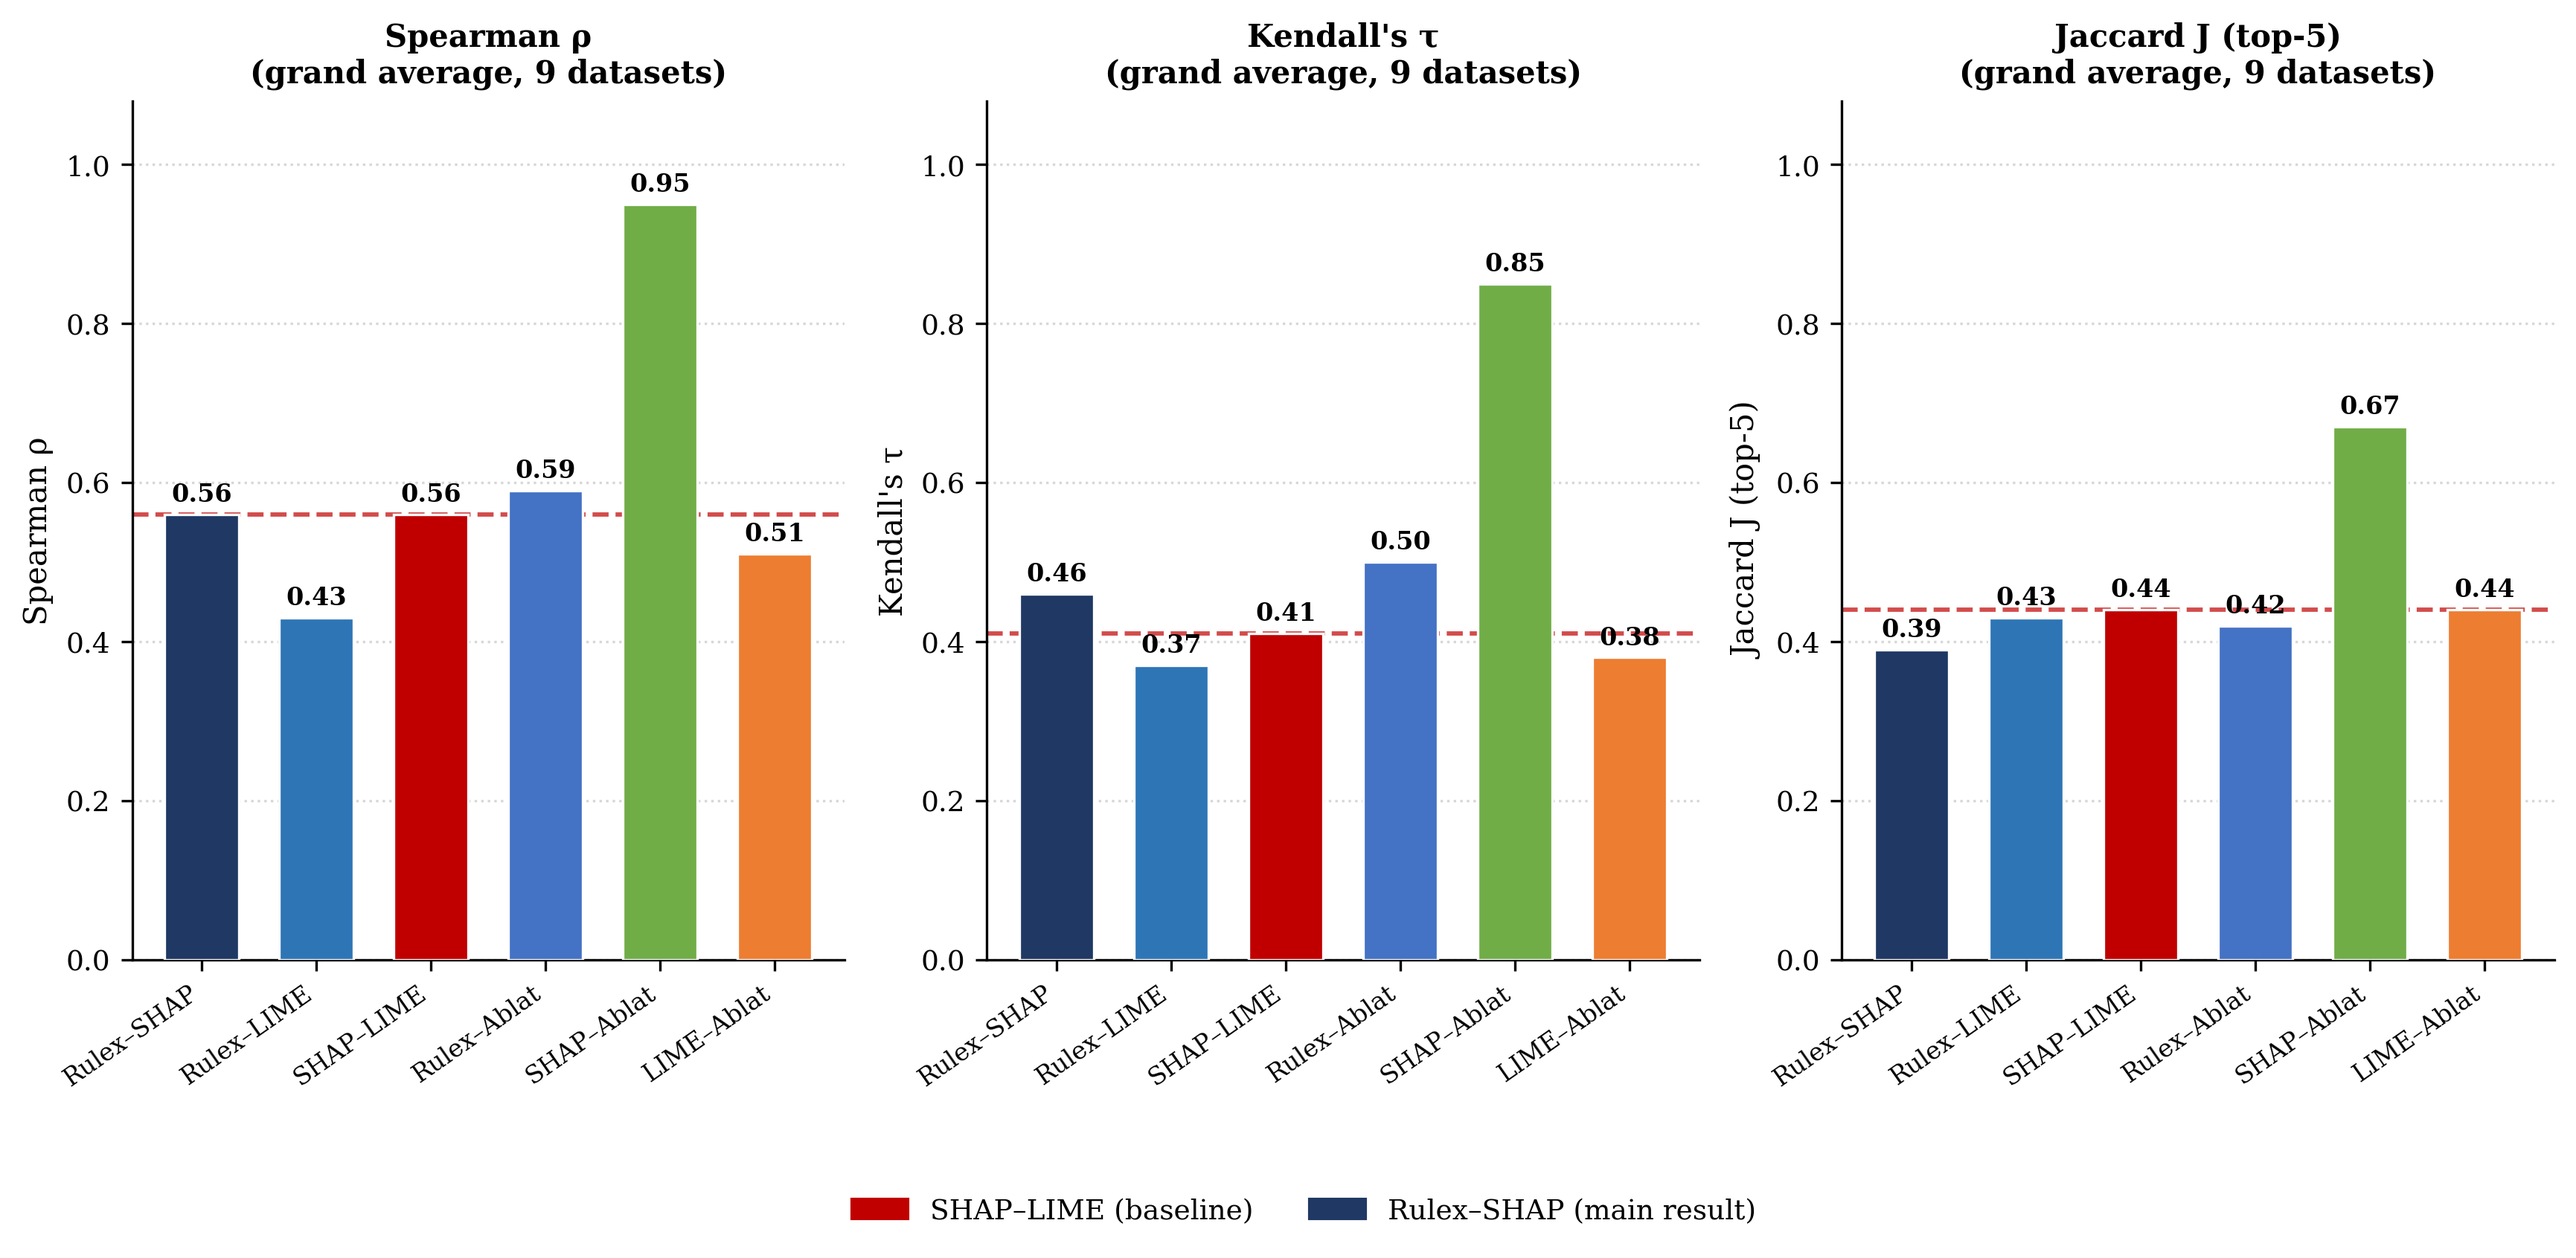
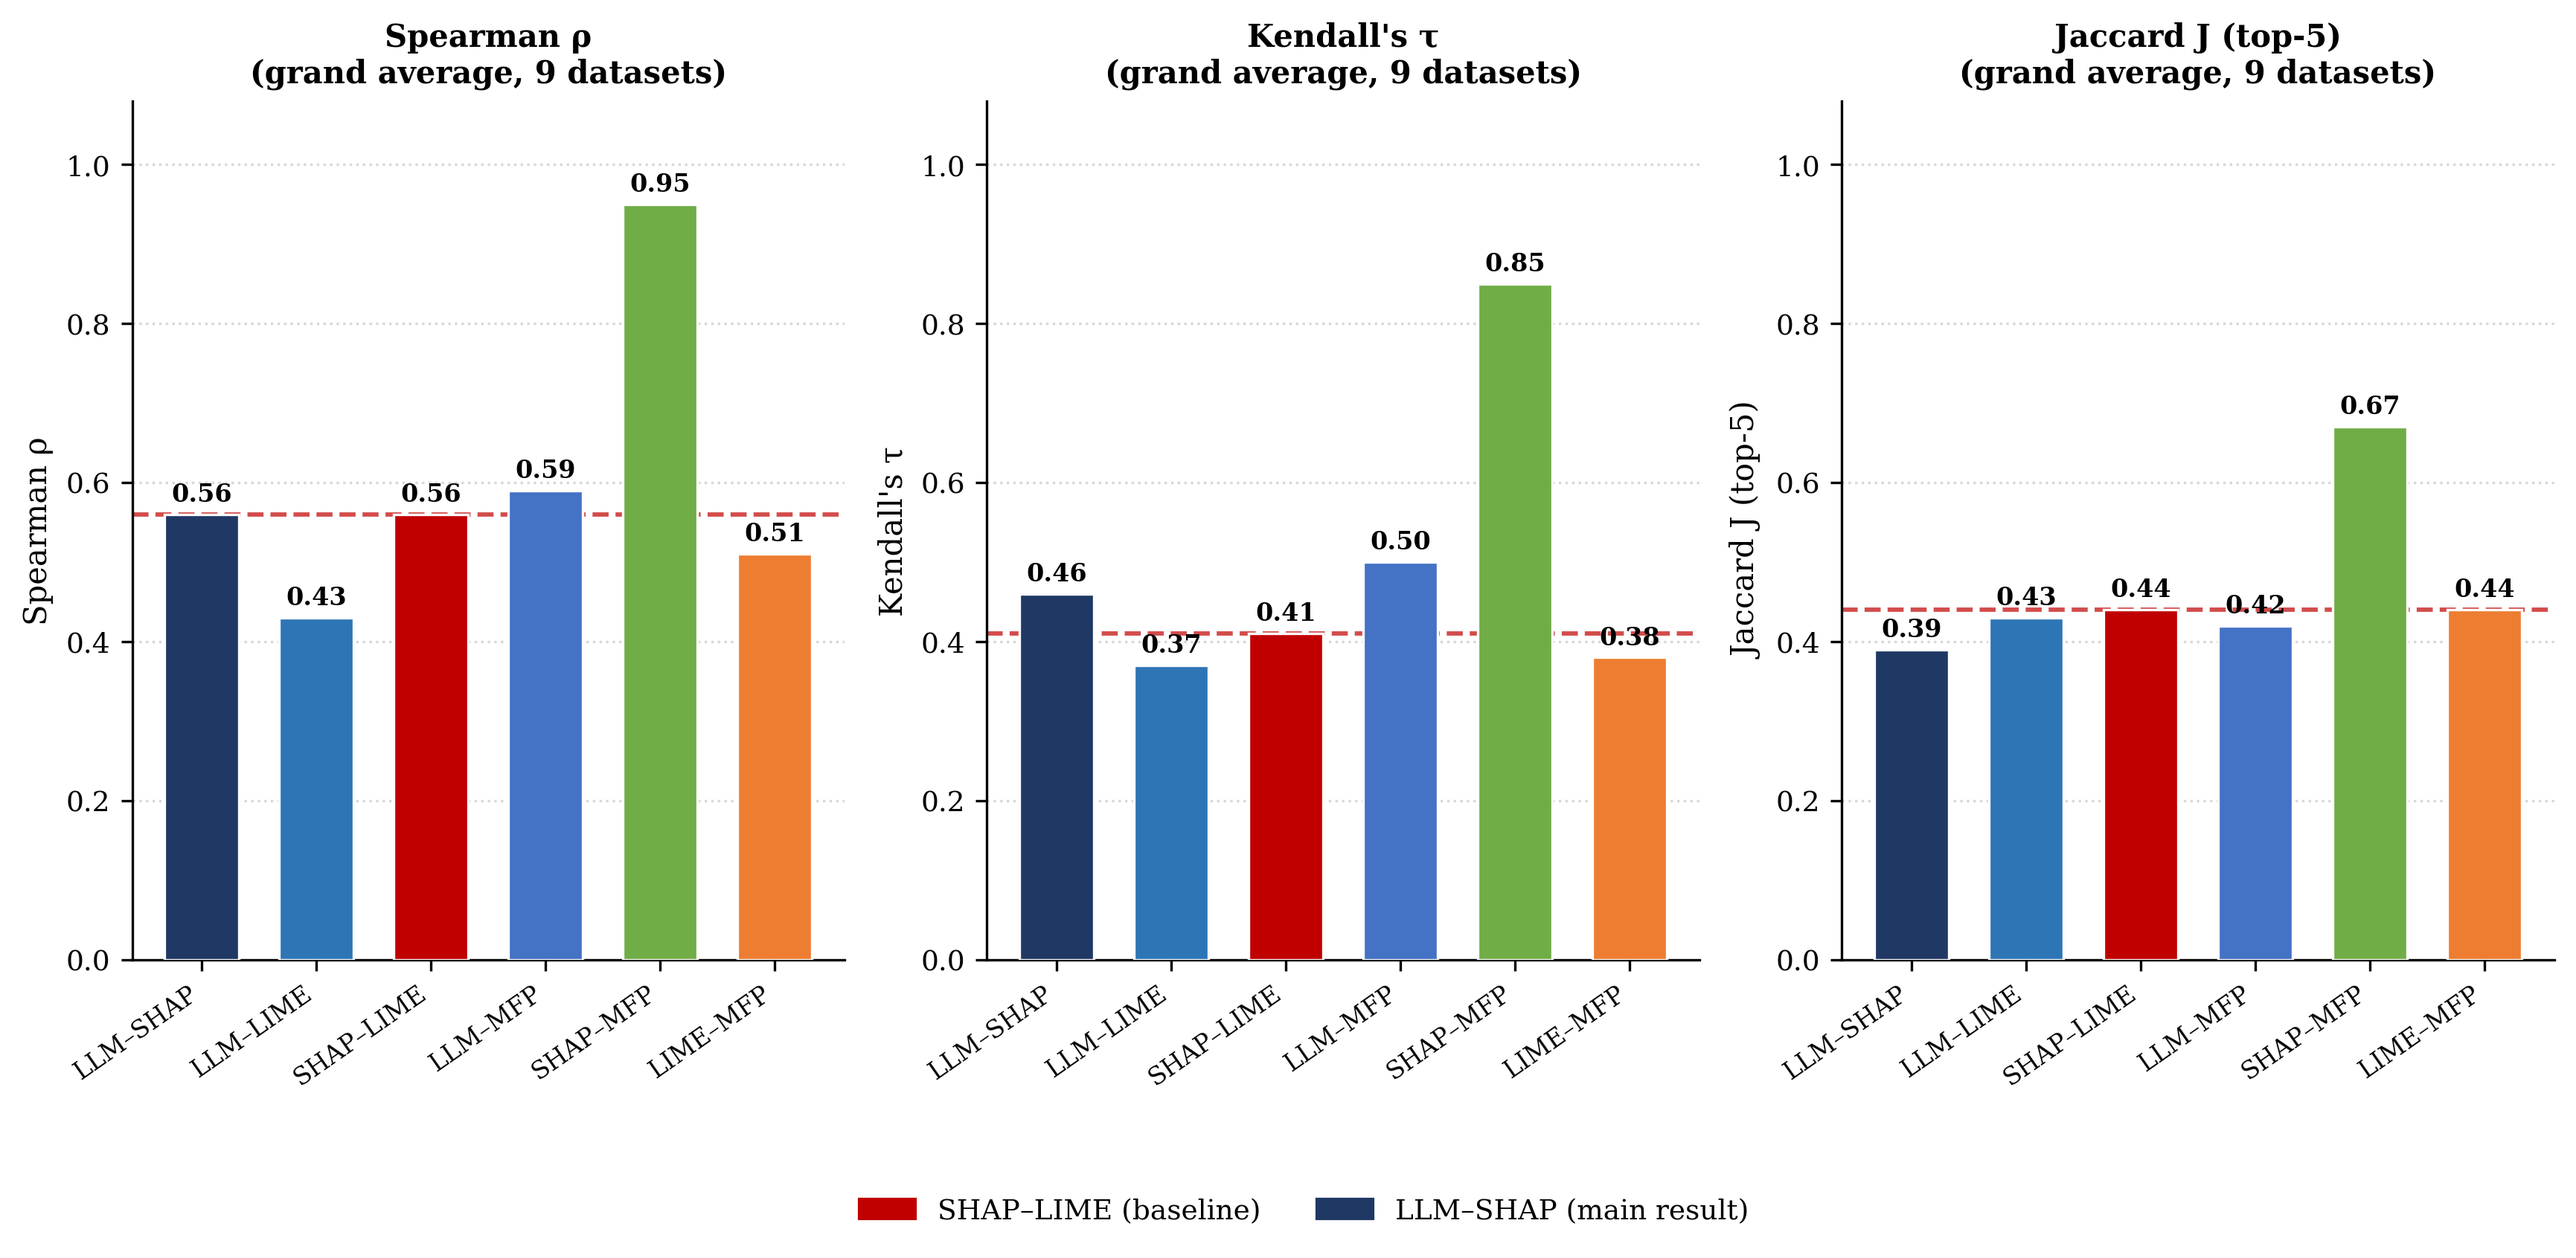
replace the "Rulex" name with "LLM" and "Ablat" with "MFP".

diff --git a/Applying_LIME_-_SHAP_on_public_datasets/Visualization.py b/Applying_LIME_-_SHAP_on_public_datasets/Visualization.py
@@ -94,7 +94,8 @@ def plot_spearman_heatmap(summary_csv, output_folder):
     im = ax.imshow(matrix.values, cmap=cmap, vmin=-0.2, vmax=1.0, aspect='auto')
 
     ax.set_xticks(range(len(METHOD_PAIRS)))
-    ax.set_xticklabels([p.replace('-', '–') for p in METHOD_PAIRS],
+    # Replace Rulex with LLM and Ablat with MFP purely for the visual label
+    ax.set_xticklabels([p.replace('-', '–').replace('Rulex', 'LLM').replace('Ablat', 'MFP') for p in METHOD_PAIRS],
                        rotation=30, ha='right', fontsize=9)
     ax.set_yticks(range(len(matrix)))
     ax.set_yticklabels(matrix.index.tolist(), fontsize=9)
@@ -114,6 +115,8 @@ def plot_spearman_heatmap(summary_csv, output_folder):
 
     cbar = fig.colorbar(im, ax=ax, fraction=0.03, pad=0.02)
     cbar.set_label('Spearman ρ', fontsize=9)
+    
+    # Title commented out per earlier requests
     """ax.set_title('Spearman Rank Correlation between XAI Methods\n'
                  '(red border = SHAP–LIME baseline)',
                  fontsize=13, fontweight='bold', pad=12)"""
@@ -155,7 +158,8 @@ def plot_grand_average_bars(summary_csv, output_folder):
                    linewidth=1.4, alpha=0.7, zorder=2)
 
         ax.set_xticks(range(len(METHOD_PAIRS)))
-        ax.set_xticklabels([p.replace('-', '–') for p in METHOD_PAIRS],
+        # Replace Rulex with LLM and Ablat with MFP purely for the visual label
+        ax.set_xticklabels([p.replace('-', '–').replace('Rulex', 'LLM').replace('Ablat', 'MFP') for p in METHOD_PAIRS],
                            rotation=35, ha='right', fontsize=8)
         ax.set_ylim(0, 1.08)
         ax.set_ylabel(mlabel, fontsize=10)
@@ -166,7 +170,7 @@ def plot_grand_average_bars(summary_csv, output_folder):
 
     legend_patches = [
         mpatches.Patch(color=ACCENT_RED, label='SHAP–LIME (baseline)'),
-        mpatches.Patch(color=DARK_BLUE,  label='Rulex–SHAP (main result)'),
+        mpatches.Patch(color=DARK_BLUE,  label='LLM–SHAP (main result)'),
     ]
     fig.legend(handles=legend_patches, loc='lower center', ncol=2,
                fontsize=9, frameon=False, bbox_to_anchor=(0.5, -0.15))
@@ -176,7 +180,7 @@ def plot_grand_average_bars(summary_csv, output_folder):
 
 
 # ═══════════════════════════════════════════════════════════════════════════════
-# PLOT 3 — Per-Dataset Parity Profile (Rulex-SHAP vs SHAP-LIME)
+# PLOT 3 — Per-Dataset Parity Profile (LLM-SHAP vs SHAP-LIME)
 # ═══════════════════════════════════════════════════════════════════════════════
 
 def plot_parity_profile(summary_csv, output_folder):
@@ -184,14 +188,16 @@ def plot_parity_profile(summary_csv, output_folder):
     data = df[df['Dataset'] != 'TOTAL AVERAGE'].copy()
 
     datasets   = data['Dataset'].tolist()
+    # Still load using "Rulex" column from CSV
     rulex_shap = data['Spearman (Rulex-SHAP)'].astype(float).tolist()
     shap_lime  = data['Spearman (SHAP-LIME)'].astype(float).tolist()
     x = np.arange(len(datasets))
 
     fig, ax = plt.subplots(figsize=(11, 5))
 
+    # Display label as LLM-SHAP
     ax.plot(x, rulex_shap, 'o-', color=DARK_BLUE, linewidth=2,
-            markersize=8, label='Rulex–SHAP (main result)', zorder=4)
+            markersize=8, label='LLM–SHAP (main result)', zorder=4)
     ax.plot(x, shap_lime, 's--', color=ACCENT_RED, linewidth=2,
             markersize=8, label='SHAP–LIME (baseline)', zorder=4)
 
@@ -211,9 +217,6 @@ def plot_parity_profile(summary_csv, output_folder):
     ax.set_xticklabels(datasets, rotation=30, ha='right', fontsize=9)
     ax.set_ylabel('Spearman ρ', fontsize=11)
     ax.set_ylim(-0.2, 1.05)
-    """ax.set_title('Per-Dataset Spearman: Rulex–SHAP vs. SHAP–LIME Baseline\n'
-                 '(dotted lines = grand averages)',
-                 fontsize=12, fontweight='bold')"""
     ax.legend(fontsize=9, frameon=False, loc='lower right')
     ax.yaxis.grid(True, linestyle=':', alpha=0.4)
     ax.set_axisbelow(True)
@@ -240,7 +243,8 @@ def plot_jaccard_heatmap(summary_csv, output_folder):
     im = ax.imshow(matrix.values, cmap=cmap, vmin=0.0, vmax=1.0, aspect='auto')
 
     ax.set_xticks(range(len(METHOD_PAIRS)))
-    ax.set_xticklabels([p.replace('-', '–') for p in METHOD_PAIRS],
+    # Replace Rulex with LLM and Ablat with MFP purely for the visual label
+    ax.set_xticklabels([p.replace('-', '–').replace('Rulex', 'LLM').replace('Ablat', 'MFP') for p in METHOD_PAIRS],
                        rotation=30, ha='right', fontsize=9)
     ax.set_yticks(range(len(matrix)))
     ax.set_yticklabels(matrix.index.tolist(), fontsize=9)
@@ -259,9 +263,6 @@ def plot_jaccard_heatmap(summary_csv, output_folder):
 
     cbar = fig.colorbar(im, ax=ax, fraction=0.03, pad=0.02)
     cbar.set_label('Jaccard J (top-5)', fontsize=9)
-    """ax.set_title('Jaccard Similarity (Top-5 Features) between XAI Methods\n'
-                 '(red border = SHAP–LIME baseline)',
-                 fontsize=13, fontweight='bold', pad=12)"""
 
     _ensure(output_folder)
     _save(fig, os.path.join(output_folder, 'jaccard_heatmap.png'))
@@ -417,11 +418,6 @@ def plot_cumulative_ablation_per_dataset(
 
     trunc_note = (f'  ({n} most important of {total_feats} features shown)'
                   if truncated else '')
-    """ax.set_xlabel(
-        ('← less important features hidden  |  ' if truncated else '') +
-        'Features: least important (left) → most important (right)',
-        fontsize=9
-    )"""
 
     plt.tight_layout()
     _ensure(output_folder)
